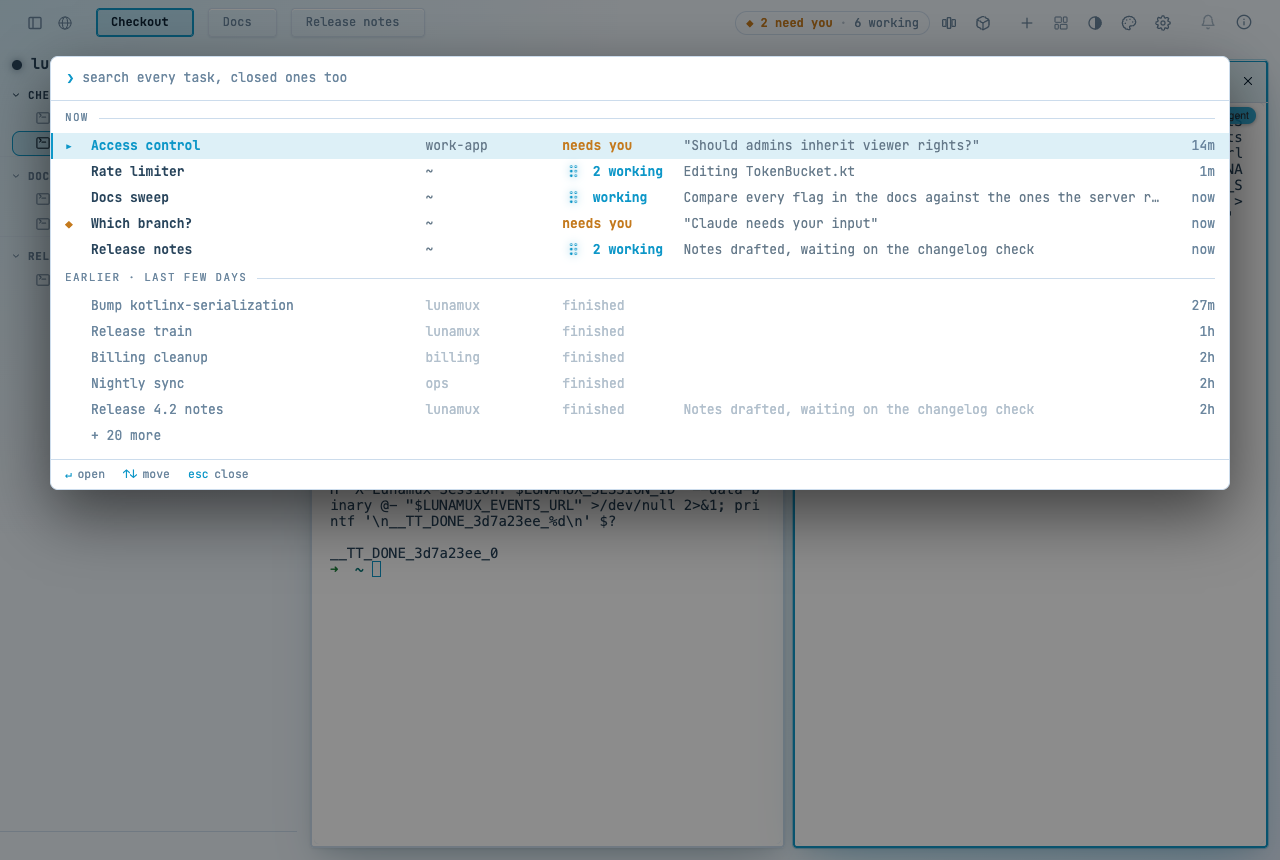
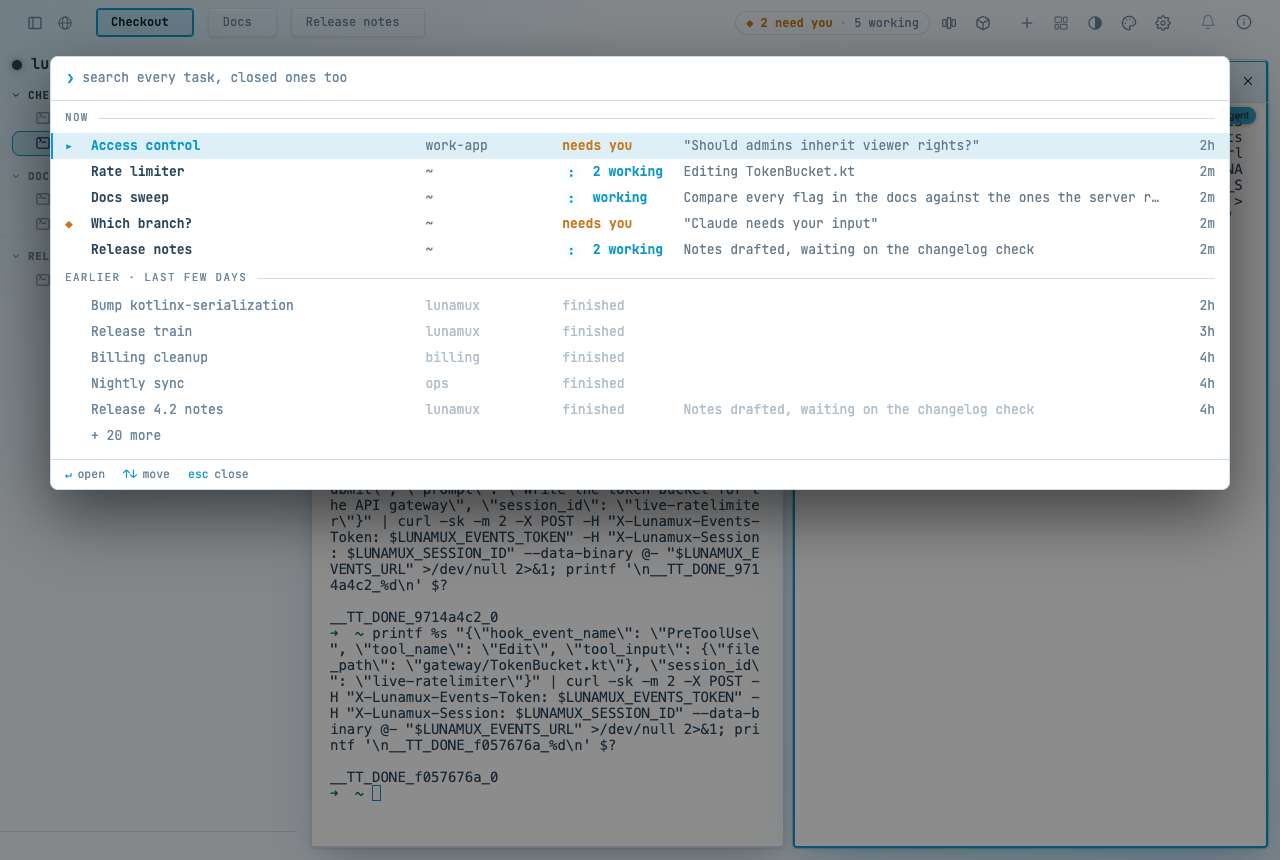
Draw the working glyph at regular weight again, so it shows two dots and not six
The glyph sits inside the state word, which is bold. The monospace face has no braille, so the
system falls back to Apple Braille, and in a bold weight that picks its outlined six-dot face: a ring
at every dot position the pair leaves unlit, which read as a jumpy, six-dotted glyph. `.ao-work` now
states its own regular weight, as it did when it had a cell to itself, and a test holds the weight
and the box in place by reading the rule out of the stylesheet (the stylesheet is an input of the
test task, so a change to it reruns the test). Screenshots reshot, with one full turn of the glyph.

Changed region(s): [[0.25, 0.5744, 0.5938, 0.9372]]

diff --git a/client/src/jvmTest/kotlin/se/soderbjorn/lunamux/client/WorkingGlyphStyleTest.kt b/client/src/jvmTest/kotlin/se/soderbjorn/lunamux/client/WorkingGlyphStyleTest.kt
@@ -1,0 +1,71 @@
+/**
+ * Holds the box and the weight of the agents overview's working glyph in place by reading its CSS
+ * rule out of the web module's `styles.css`.
+ *
+ * There is no browser test setup for the web module, and what breaks the glyph is a style, not
+ * code: the glyph is a braille pair drawn in a monospace face with no braille, so the system falls
+ * back to Apple Braille, and inheriting the bold weight of the word beside it (the state cell of a
+ * working row is bold) picks that font's outlined six-dot face, which draws a ring at every dot
+ * the pair leaves unlit. These tests fail when the `.ao-work` rule stops saying its own weight or
+ * stops being as high as a row's line.
+ *
+ * @see se.soderbjorn.lunamux.WorkingGlyphSpec
+ */
+package se.soderbjorn.lunamux.client
+
+import java.io.File
+import kotlin.test.Test
+import kotlin.test.assertEquals
+import kotlin.test.assertTrue
+
+/** Tests for the `.ao-work` rule of `web/src/jsMain/resources/styles.css`. */
+class WorkingGlyphStyleTest {
+
+    /**
+     * The text of the web module's `styles.css`.
+     *
+     * @return the stylesheet, read from the path in the `lunamux.stylesCss` system property.
+     */
+    private fun stylesheet(): String = File(System.getProperty("lunamux.stylesCss")).readText()
+
+    /**
+     * The declarations of the `.ao-work` rule, by property.
+     *
+     * Reads the stylesheet from the path the build passes in `lunamux.stylesCss` (see
+     * `client/build.gradle.kts`, which also makes the stylesheet an input of the test task).
+     *
+     * @return property name to value, for the rule whose selector is exactly `.ao-work`.
+     */
+    private fun glyphRule(): Map<String, String> {
+        val css = stylesheet()
+        val body = Regex("""(?m)^\.ao-work\s*\{([^}]*)}""").find(css)?.groupValues?.get(1)
+        assertTrue(body != null, "styles.css has no `.ao-work` rule")
+        return body.split(';').mapNotNull { decl ->
+            val i = decl.indexOf(':')
+            if (i < 0) null else decl.substring(0, i).trim() to decl.substring(i + 1).trim()
+        }.toMap()
+    }
+
+    /** The glyph is always drawn at regular weight, whatever bold word sits beside it. */
+    @Test
+    fun glyphKeepsItsOwnRegularWeight() {
+        assertEquals("400", glyphRule()["font-weight"])
+    }
+
+    /** The glyph's box is as high as a row's line, so it never grows its row. */
+    @Test
+    fun glyphBoxIsAsHighAsARowLine() {
+        val rule = glyphRule()
+        assertEquals("20px", rule["height"])
+        assertEquals(rule["height"], rule["line-height"])
+        assertEquals("2ch", rule["width"])
+    }
+
+    /** The row's line is 20px, the height the glyph's box is held to above. */
+    @Test
+    fun rowLineIsTheGlyphBoxHeight() {
+        val css = stylesheet()
+        val row = Regex("""(?m)^\.ao-row\s*\{([^}]*)}""").find(css)?.groupValues?.get(1)
+        assertTrue(row != null && Regex("""line-height:\s*20px""").containsMatchIn(row), "`.ao-row` line is not 20px")
+    }
+}

diff --git a/web/src/jsMain/resources/styles.css b/web/src/jsMain/resources/styles.css
@@ -3686,7 +3686,10 @@ body[data-tt-news-pulse="1"] .tt-news-topbar {
 
 /* The working glyph (WorkingGlyph.kt): two layers stacked in one box and cross-faded by the script,
    in the accent with a soft glow. The box is as high as a row's line so it does not grow the row, and
-   the cell it sits in lets the glow spill past its edge. */
+   the cell it sits in lets the glow spill past its edge. Its weight is its own and always regular,
+   never the word's beside it: the monospace face has no braille, so the system falls back to Apple
+   Braille, and a bold weight there picks its outlined six-dot face, which draws a ring at every dot
+   position the pair does not light. */
 .ao-row > .ao-sw { overflow: visible; }
 .ao-work {
     position: relative;
@@ -3694,6 +3697,7 @@ body[data-tt-news-pulse="1"] .tt-news-topbar {
     width: 2ch;
     height: 20px;
     font-size: 19px;
+    font-weight: 400;
     line-height: 20px;
     vertical-align: top;
     text-align: center;

diff --git a/docs/tasks.md b/docs/tasks.md
@@ -34,7 +34,9 @@ runs in, home as `~`), one **state word**, a **detail** and the **age**. The sta
 | **finished** (dim) | the task is in EARLIER and nothing is moving or waiting |
 
 The glyph is the app's own working mark: four braille frames that cross-fade
-about three times a second. With reduced motion it is a still frame.
+about three times a second. With reduced motion it is a still frame. It is always drawn at regular
+weight, not the bold of the word beside it: the system's braille font draws a ring at all six dot
+positions in a bold weight, and the glyph is meant to show two dots turning.
 
 A session is *moving* while it works and has shown a sign of life in the last five minutes (for a
 session Lunamux does not host: while its file was refreshed in the last twenty). One that works but
